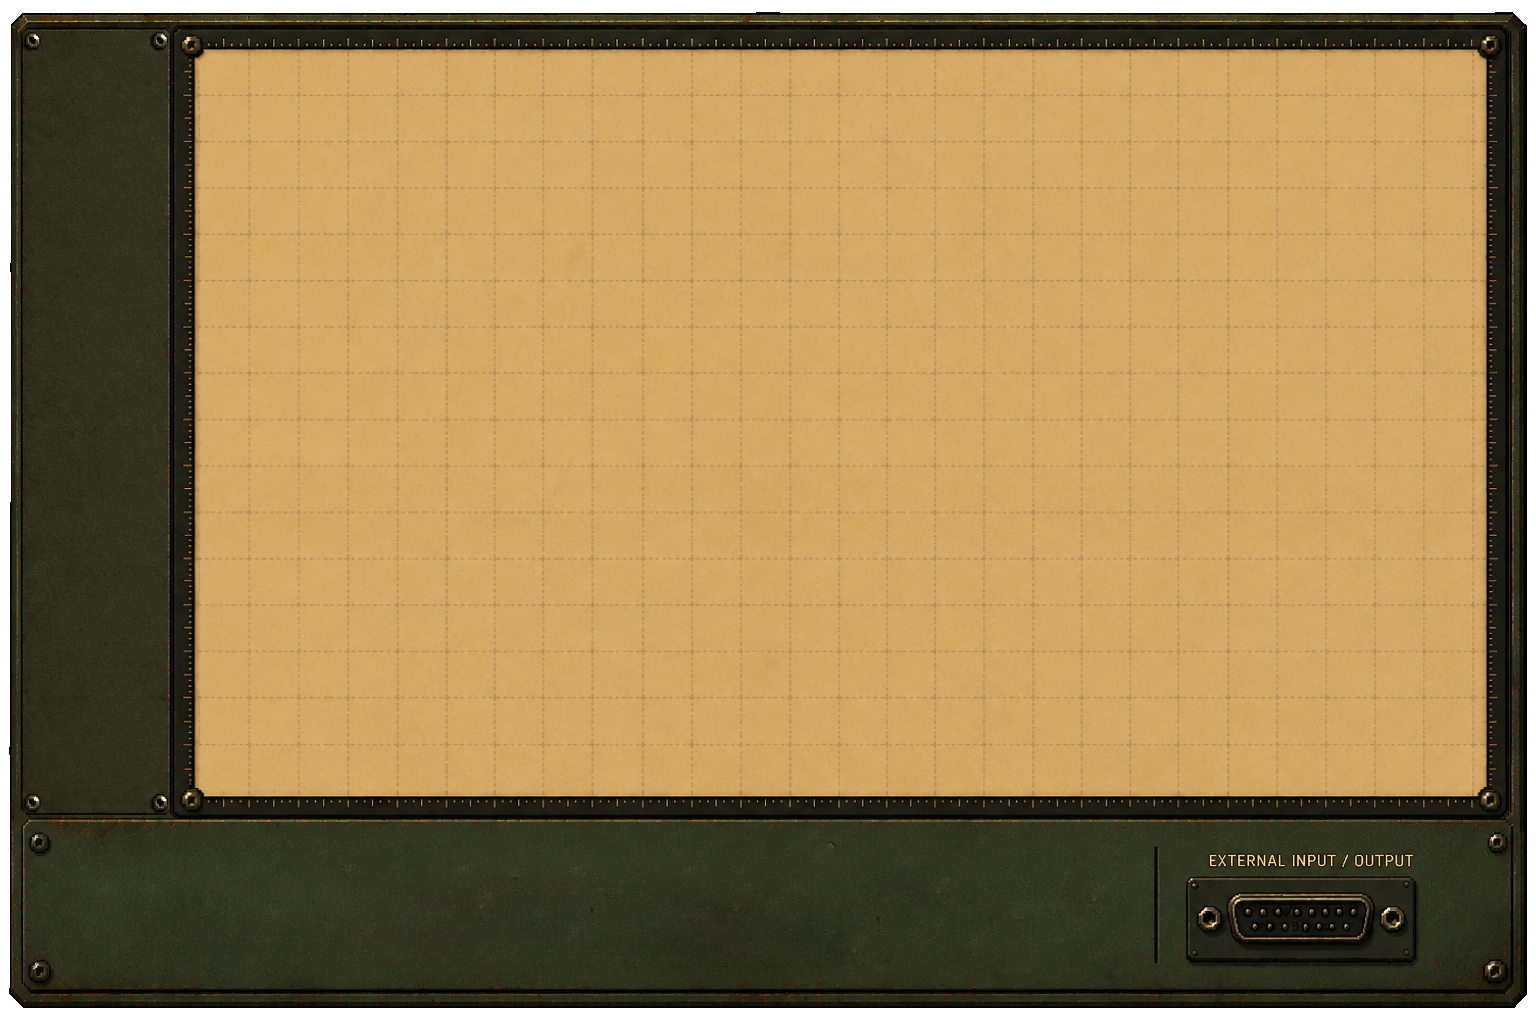
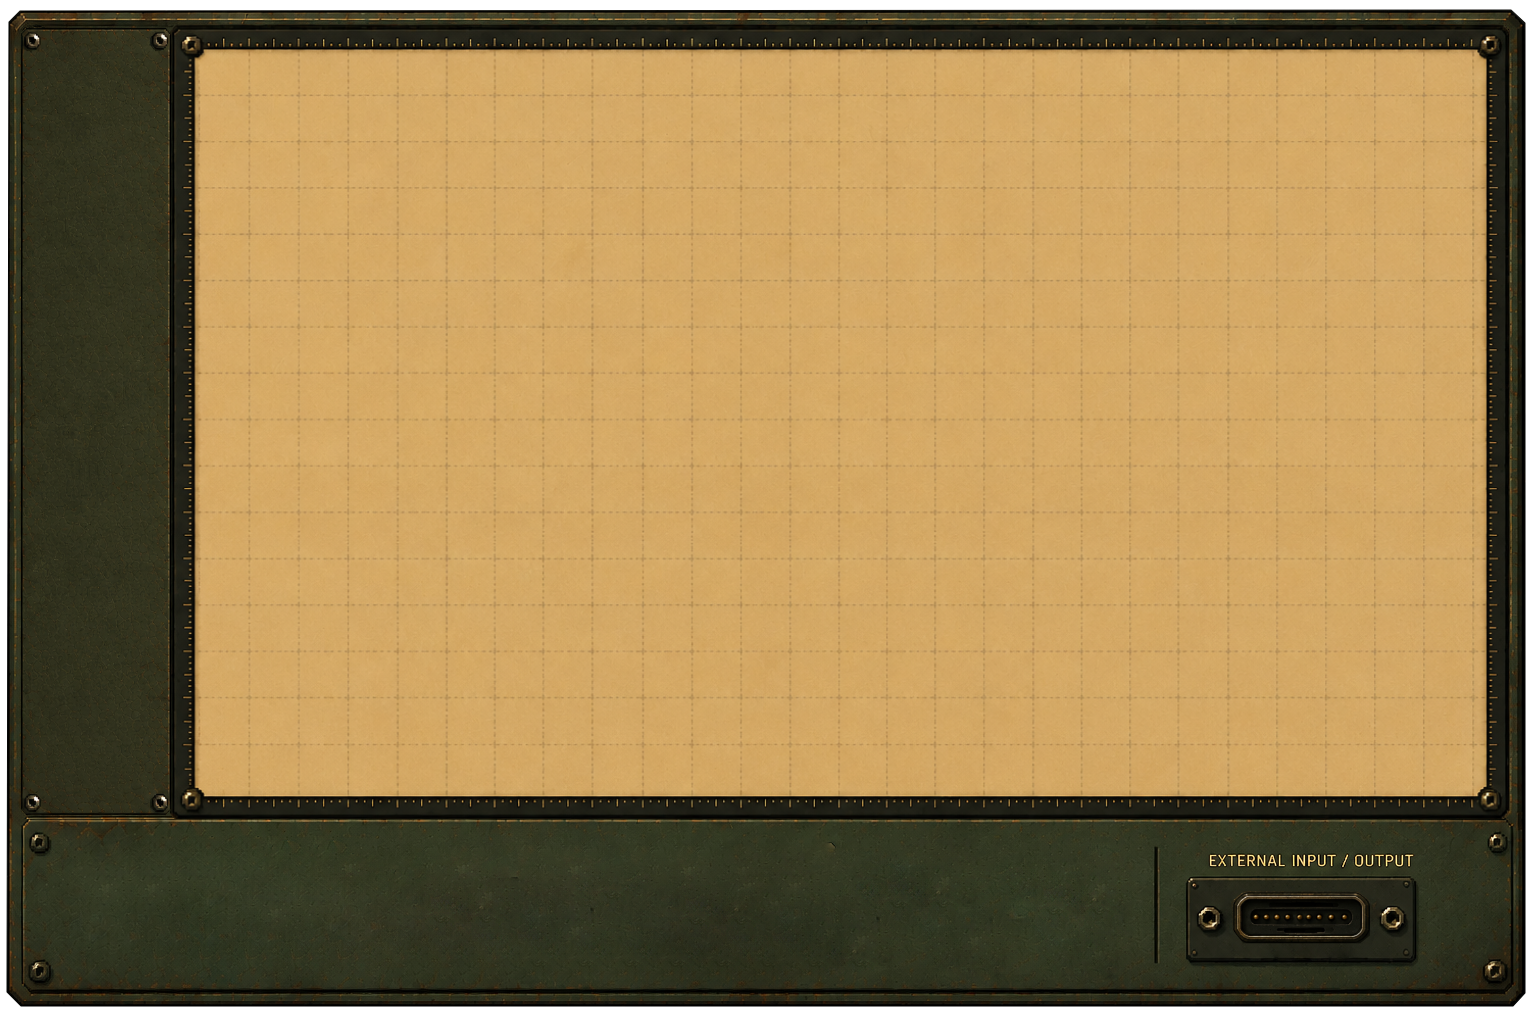
fix: board being render above the dev menu

diff --git a/src/main/java/com/gatekeeper/GamePanel.java b/src/main/java/com/gatekeeper/GamePanel.java
@@ -293,6 +293,9 @@ public final class GamePanel extends JPanel implements KeyListener, MouseListene
                 g, chapter, notebookPage, ticks);
             case END -> notebookRenderer.drawEnding(g);
         }
+        if (scene == GameScene.BOARD) {
+            worldRenderer.drawPositionMarkers(g, 0);
+        }
         if (scene == GameScene.BOARD && autoTesterOverlayVisible) {
             autoTesterRenderer.draw(g, testerTarget(), autoTester.observations(),
                 autoTester.currentRow(), mouseX, mouseY, pressedAutoTesterAction,
@@ -981,7 +984,7 @@ public final class GamePanel extends JPanel implements KeyListener, MouseListene
             }
             return;
         }
-        if (calibratorEnabled && (scene == GameScene.BEDROOM || scene == GameScene.STREET || scene == GameScene.SHOP)) {
+        if (calibratorEnabled && supportsPositionMarker(scene)) {
             if (key == KeyEvent.VK_BACK_SPACE) {
                 worldRenderer.undoCalibratedPoint();
                 repaint();
@@ -1300,7 +1303,7 @@ public final class GamePanel extends JPanel implements KeyListener, MouseListene
             }
             return;
         }
-        if (calibratorEnabled && (scene == GameScene.BEDROOM || scene == GameScene.STREET || scene == GameScene.SHOP)) {
+        if (calibratorEnabled && supportsPositionMarker(scene)) {
             int cameraX = (scene == GameScene.STREET) ? worldRenderer.streetCameraX() : 0;
             int worldX = cameraX + x;
             int worldY = y;
@@ -1988,6 +1991,13 @@ public final class GamePanel extends JPanel implements KeyListener, MouseListene
     }
 
     private static int clamp(int value, int min, int max) { return Math.max(min, Math.min(max, value)); }
+
+    private static boolean supportsPositionMarker(GameScene targetScene) {
+        return targetScene == GameScene.BEDROOM
+            || targetScene == GameScene.STREET
+            || targetScene == GameScene.SHOP
+            || targetScene == GameScene.BOARD;
+    }
     private static double clamp(double value, double min, double max) {
         return Math.max(min, Math.min(max, value));
     }

diff --git a/src/main/java/com/gatekeeper/WorldRenderer.java b/src/main/java/com/gatekeeper/WorldRenderer.java
@@ -167,7 +167,7 @@ final class WorldRenderer {
             if (showCollisions) {
                 drawCollisionOverlay(g, GameScene.BEDROOM, playerX, playerY, 0);
             }
-            drawCalibratedPoints(g, 0);
+            drawPositionMarkers(g, 0);
             return;
         }
         // Layered night-time room: wallpaper, moonlit window, floor and rug.
@@ -275,7 +275,7 @@ final class WorldRenderer {
         if (showCollisions) {
             drawCollisionOverlay(g, GameScene.BEDROOM, playerX, playerY, 0);
         }
-        drawCalibratedPoints(g, 0);
+        drawPositionMarkers(g, 0);
     }
 
     void drawStreet(Graphics2D g) {
@@ -341,7 +341,7 @@ final class WorldRenderer {
         if (showCollisions) {
             drawCollisionOverlay(g, GameScene.STREET, playerX, playerY, cameraX);
         }
-        drawCalibratedPoints(g, cameraX);
+        drawPositionMarkers(g, cameraX);
     }
 
     private void drawStreetPlayer(Graphics2D g, int screenX) {
@@ -448,7 +448,7 @@ final class WorldRenderer {
         DevLog.log(sb.toString());
     }
 
-    private void drawCalibratedPoints(Graphics2D g, int cameraX) {
+    void drawPositionMarkers(Graphics2D g, int cameraX) {
         for (CalibratedPoint p : calibratedPoints) {
             int screenX = p.worldX - cameraX;
             int screenY = p.worldY;
@@ -604,7 +604,7 @@ final class WorldRenderer {
             if (showCollisions) {
                 drawCollisionOverlay(g, GameScene.SHOP, playerX, playerY, 0);
             }
-            drawCalibratedPoints(g, 0);
+            drawPositionMarkers(g, 0);
             return;
         }
         // A warm, crowded neighborhood electronics shop.
